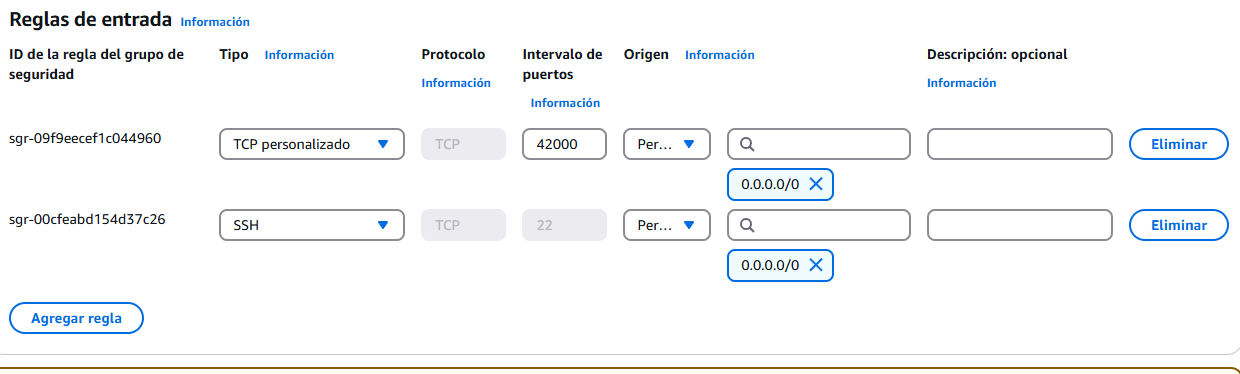
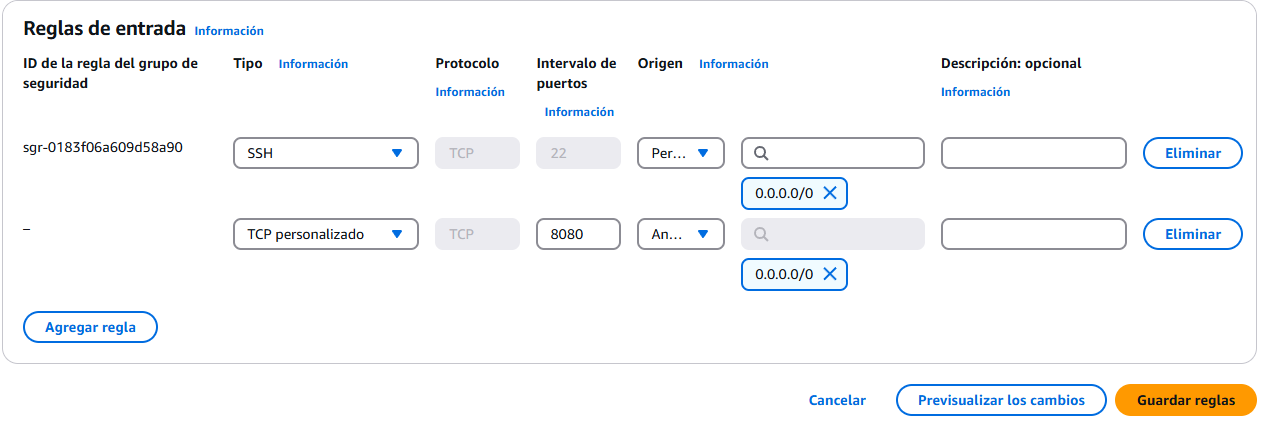
Done

diff --git a/src/main/resources/static/styles.css b/src/main/resources/static/styles.css
@@ -1,6 +1,86 @@
-body { font-family: Arial, sans-serif; margin: 20px; }
-.form-container { margin-bottom: 20px; }
-.property-list { margin-top: 30px; }
-table { width: 100%; border-collapse: collapse; }
-th, td { padding: 10px; border: 1px solid #ddd; }
-.btn { padding: 5px 10px; cursor: pointer; }
+/* Reinicio básico de márgenes y paddings */
+* {
+    margin: 0;
+    padding: 0;
+    box-sizing: border-box;
+}
+
+/* Estilo general del body */
+body {
+    font-family: Arial, sans-serif;
+    background-color: #f4f4f4;
+    color: #333;
+    line-height: 1.6;
+}
+
+/* Títulos */
+h1 {
+    text-align: center;
+    margin: 20px 0;
+}
+
+/* Contenedores principales */
+.form-container, .property-list {
+    max-width: 600px;       /* Ajusta el ancho máximo según necesites */
+    margin: 20px auto;      /* Centra el contenedor horizontalmente */
+    background-color: #fff;
+    padding: 20px;
+    border-radius: 5px;
+    box-shadow: 0 0 5px rgba(0,0,0,0.1);
+}
+
+/* Subtítulos dentro de los contenedores */
+.form-container h2,
+.property-list h2 {
+    margin-bottom: 15px;
+}
+
+/* Etiquetas de formulario */
+label {
+    display: block;
+    margin-bottom: 5px;
+    font-weight: bold;
+}
+
+/* Campos de entrada */
+input[type="text"],
+input[type="number"],
+textarea {
+    width: 100%;
+    padding: 8px;
+    margin-bottom: 15px;
+    border: 1px solid #ccc;
+    border-radius: 4px;
+}
+
+/* Botón principal */
+.btn {
+    background-color: #4CAF50;
+    color: #fff;
+    padding: 10px 15px;
+    border: none;
+    cursor: pointer;
+    border-radius: 4px;
+}
+
+.btn:hover {
+    background-color: #45a049;
+}
+
+/* Estilos para la tabla */
+table {
+    width: 100%;
+    border-collapse: collapse;
+    margin-top: 15px;
+}
+
+th, td {
+    padding: 12px;
+    text-align: left;
+    border-bottom: 1px solid #ddd;
+}
+
+/* Cabecera de la tabla */
+th {
+    background-color: #f0f0f0;
+}

diff --git a/src/main/resources/static/index.html b/src/main/resources/static/index.html
@@ -4,6 +4,7 @@
     <meta charset="UTF-8">
     <meta name="viewport" content="width=device-width, initial-scale=1.0">
     <title>Property Management</title>
+    <!-- Asegúrate de tener este link a tu archivo CSS -->
     <link rel="stylesheet" href="styles.css">
 </head>
 <body>
@@ -14,17 +15,17 @@
 <div class="form-container">
     <h2>Add New Property</h2>
     <form id="property-form">
-        <label for="address">Address: </label>
-        <input type="text" id="address" name="address" required><br><br>
+        <label for="address">Address:</label>
+        <input type="text" id="address" name="address" required>
 
-        <label for="price">Price: </label>
-        <input type="number" id="price" name="price" required><br><br>
+        <label for="price">Price:</label>
+        <input type="number" id="price" name="price" required>
 
-        <label for="size">Size (sq. ft.): </label>
-        <input type="number" id="size" name="size" required><br><br>
+        <label for="size">Size (mts2):</label>
+        <input type="number" id="size" name="size" required>
 
-        <label for="description">Description: </label>
-        <textarea id="description" name="description" required></textarea><br><br>
+        <label for="description">Description:</label>
+        <textarea id="description" name="description" required></textarea>
 
         <button type="submit" class="btn">Submit</button>
     </form>
@@ -49,6 +50,7 @@
     </table>
 </div>
 
+<!-- Tu script para manejar la lógica -->
 <script src="script.js"></script>
 
 </body>

diff --git a/README.md b/README.md
@@ -2,13 +2,17 @@
 
 ## Creation of a CRUD System to Manage Properties
 
-In this project, we will develop a simple CRUD (Create, Read, Update, Delete) system for managing real estate properties. They will build a basic web application that enables users to perform key operations on property listings, finally the web application will be released in AWS.
+In this project, we will develop a simple CRUD (Create, Read, Update, Delete) system for managing real estate properties through a web application. Users will be able to perform key operations on property listings, and the application will be deployed in the cloud using AWS EC2 instances.
 
-## Project Summary
+The backend is built with Spring Boot and runs inside a Docker container on one EC2 instance, while the MySQL database is hosted in another Docker container on a separate EC2 instance. This architecture ensures scalability, maintainability, and separation of concerns, providing a flexible and efficient deployment strategy.
 
 ## Architecture
 
-The architecture used aligns with the Client-Server pattern, in which a server hosts all resources, and one or more clients can access and use these resources through requests that are responded to by the Backend's REST services.
+The architecture of this project follows a distributed deployment model using AWS EC2 instances. It consists of three main components:
+
+- Browser: Users interact with the system through a web browser, sending requests to the web application.
+- WebApplication: A Spring Boot application runs inside a Docker container on a EC2 instance, handling business logic, processing user requests, and communicating with the database.
+- Database: A MySQL database runs inside a Docker container on a separate EC2 instance, storing and managing property data.
 
 ![](src/main/resources/images/architecture.png)
 
@@ -42,7 +46,7 @@ src/
       co/
         edu/
           eci/
-            WebApplicationTest.java             # Pruebas Unitarias
+            PropertyControllerTest.java         # Pruebas Unitarias
 Dockerfile
 pom.xml
 README.md
@@ -116,24 +120,23 @@ git --version
     ```
     docker run --name mysql-container -e MYSQL_ROOT_PASSWORD=root -e MYSQL_DATABASE=properties_db -p 3306:3306 -d mysql
     ```
-4. Enable external connections to the DB, first get into the container (password: root) with the command:
+
+4. You can get into the database in the container (password: root) with the command:
 
     ```
     docker exec -it mysql-container mysql -u root -p
     ```
-
-5. Use these commands on the MySQL console:
-
-    ```
-    CREATE USER 'springuser'@'%' IDENTIFIED BY 'password';
-    GRANT ALL PRIVILEGES ON properties_db.* TO 'springuser'@'%' WITH GRANT OPTION;
-    FLUSH PRIVILEGES;
-    ```
    
-6. Exit the connection and replace this line in the application.properties file:
+5. Exit the connection and replace this line in the application.properties file:
 
     ```
     spring.datasource.url=jdbc:mysql://your-EC2-public-IP:3306/properties_db
+    ```
+   
+6. Compile and generate the .jar files again with the following command:
+
+    ```
+    mvn clean package
     ```
 
 7. Create the Docker image of the application:
@@ -145,15 +148,16 @@ git --version
 8. For local tests [localhost:8080](http://localhost:8080/), create a Docker container of the application or run it using an IDE:
 
     ```
-    docker run -d -p 8080:8080 --name taller5container taller5arep
+    docker run -d -p 8080:8080 --name taller5 taller5arep
     ```
 
-   ![](src/main/resources/images/local-home-page.png)
+   ![](src/main/resources/images/local-homepage.png)
 
 9. Login and create the image on Dockerhub, the push the image:
 
     ```
     docker login
+    docker tag taller5arep jcontreras2025/taller5arep:latest
     docker push jcontreras2025/taller5arep
     ```
 
@@ -174,14 +178,17 @@ git --version
 
    ```
    sudo service docker start
-   sudo docker run -d -p 42000:8080 --name taller5 jcontreras2025/taller5arep
+   sudo docker run -d -p 8080:8080 --name taller5 jcontreras2025/taller5arep
    ```
 
 10. Copy the public DNS of the EC2 instance and paste it on a web browser using the port 42000, should look like this:
 
     ```
-    http://ec2-100-24-43-190.compute-1.amazonaws.com:42000/
+    http://ec2-44-204-74-94.compute-1.amazonaws.com:8080/
     ```
+    
+    ![](src/main/resources/images/homepage.png)
+    
 
 ## Application Running
 
@@ -228,7 +235,3 @@ If the tests were successful, you will see a message like this in your command c
 ## Authors
 
 * **Juan David Contreras Becerra** - *Taller 5 | AREP* - [AREP-Lab5](https://github.com/jcontreras2693/AREP-Lab5.git)
-
-## Acknowledgements
-
-* **Billie Thompson** - *README template* - [PurpleBooth](https://github.com/PurpleBooth)
